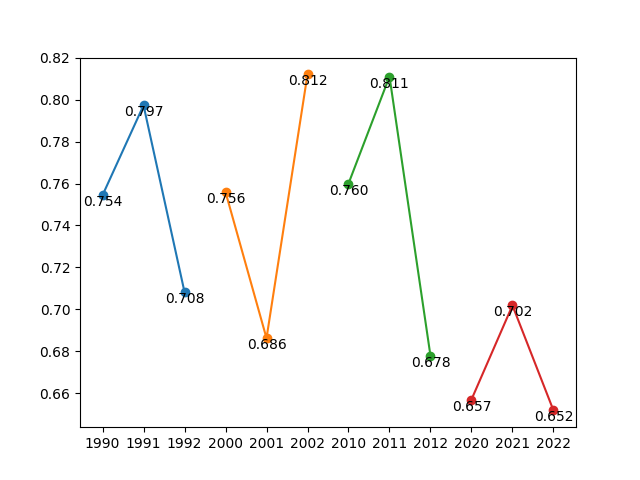
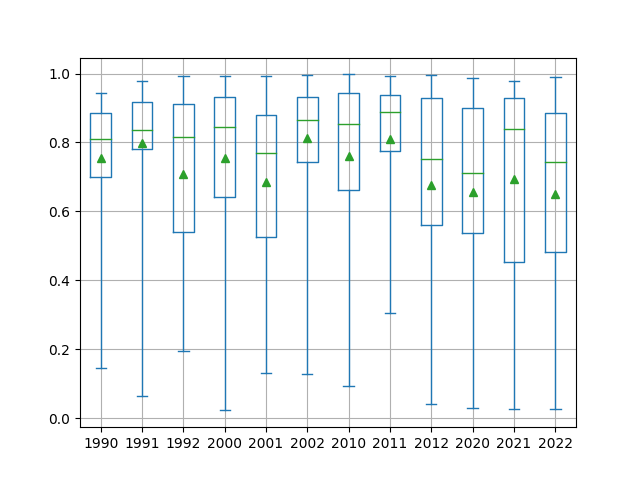
:sparkles: show box

diff --git a/asari-emotion.py b/asari-emotion.py
@@ -2,6 +2,7 @@ import json
 import os
 
 import matplotlib.pyplot as plt
+import pandas as pd
 from asari.api import Sonar
 
 
@@ -14,20 +15,16 @@ files = sorted(os.listdir(datadir))
 songsByYear = [json.load(open(f"{datadir}/{f}")) for f in files]
 
 sonar = Sonar()
-positiveAves = [
+positives = [
     # classes[0] is negative, classes[1] is positive
-    average([sonar.ping(text=s["lyric"])["classes"][1]["confidence"] for s in songs])
+    [sonar.ping(text=s["lyric"])["classes"][1]["confidence"] for s in songs]
     for songs in songsByYear
 ]
-print(positiveAves)
+print(positives)
 
 x = [f.split(".")[0] for f in files]
 
-# positiveAvesを3つずつplotする
-for i in range(0, len(positiveAves), 3):
-    plt.plot(x[i : i + 3], positiveAves[i : i + 3], marker="o")
-
-for i, v in enumerate(positiveAves):
-    plt.text(i, v, f"{v:.3f}", ha="center", va="top")
-
+df = pd.DataFrame(positives, index=x).transpose()
+df.to_csv("./data/emotion/positive.csv")
+df.plot.box(showmeans=True, grid=True, whis=[0, 100])
 plt.savefig("./data/emotion/positive.png")
